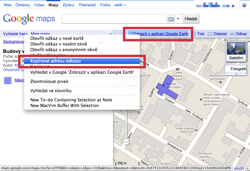
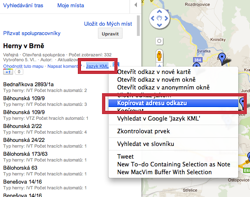
Aktualizovane instrukce, jak vyrobit mapu

diff --git a/hazard/shared/templates/shared/instruction.html b/hazard/shared/templates/shared/instruction.html
@@ -70,9 +70,10 @@
     vložit odkazy map do naší aplikace:</p>
     <ul>
         <li>V levém sloupci klikněte na odkaz "Moje místa" a vyberte mapu s hernami.
-        <li>Klikněte pravým tlačítkem myši nad odkazem "Zobrazit v aplikaci Google Earth"
-          (modrý proužek nad mapou) a vyberte z kontextového menu položku "Kopírovat
-          adresu odkazu".
+        <li>Na posledním řádku naleznete hesla "Ohodnotit tuto mapu · Napsat
+        komentář · Jazyk KML · ikonka". Klikněte pravým tlačítkem myši na odkaz
+        "Jazyk KML" a vyberte z kontextového menu položku "Kopírovat adresu
+        odkazu".
           <a href="{{ MEDIA_URL }}img/instruction/kml.png" class="fb" rel="instr" title="Získání URL odkazu na vytvořenou mapu"><img src="{{ MEDIA_URL }}img/instruction/kml_t.png" width="250"></a>
         <li>Otevřete si v prohlížeči novou záložku a navštivte adresu <a href="{% url entry-form %}">Přidat obec</a>. Klikněte
           myší do políčka "Mapa heren" a stiskněte klávesy CTRL+V (příp. Cmd+V na Macu).
